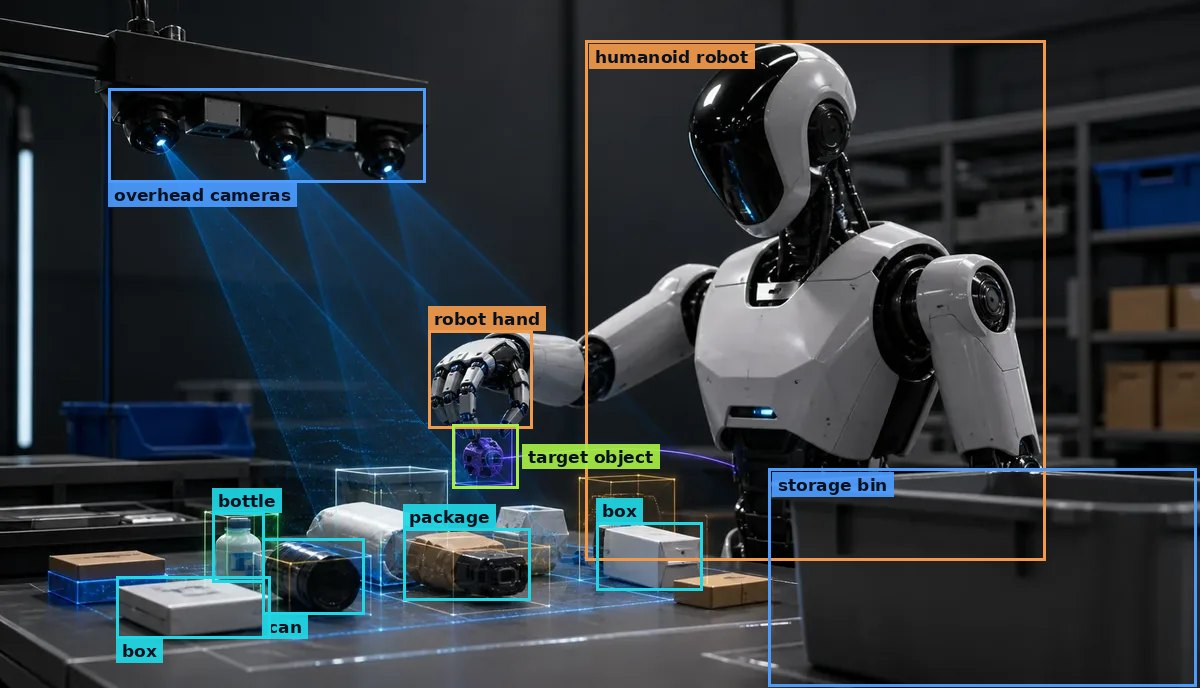
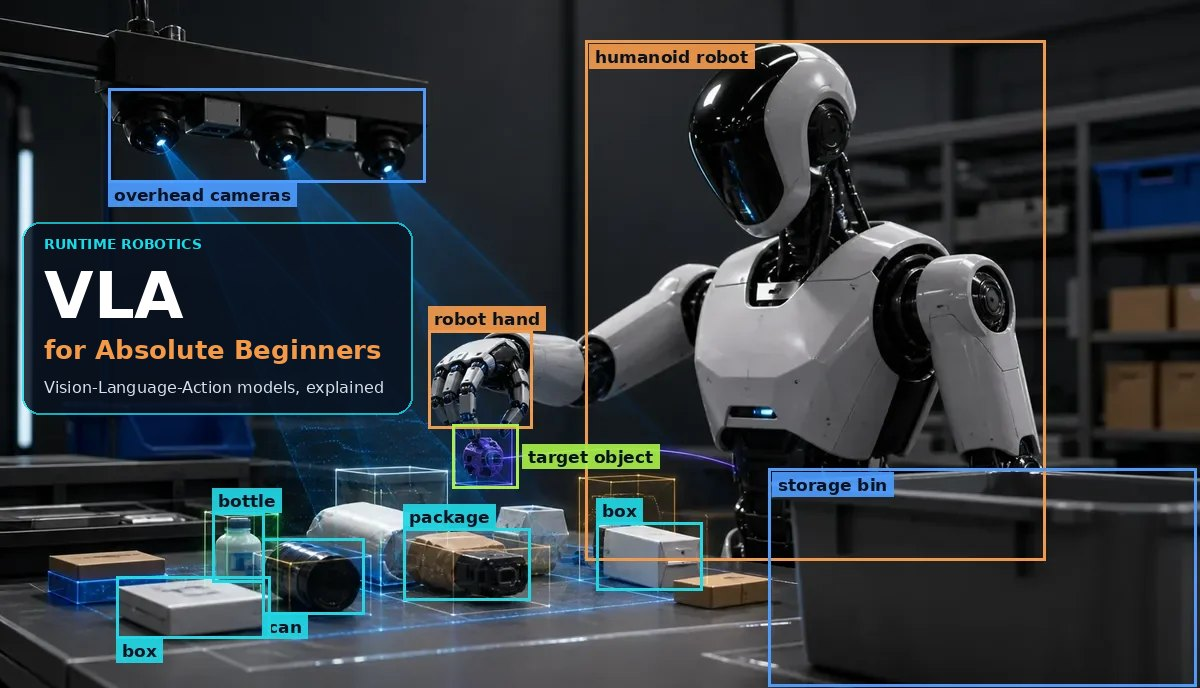
Add 'VLA for Absolute Beginners' title to the cover image
Title panel (RUNTIME ROBOTICS / VLA / for Absolute Beginners /
Vision-Language-Action models, explained) in the clear area left of the
robot, below the camera label and above the table labels. Alt text now
includes the title.

Changed region(s): [[0.0, 0.3052, 0.37, 0.6105]]

diff --git a/src/pages/vla-for-absolute-beginners.md b/src/pages/vla-for-absolute-beginners.md
@@ -9,7 +9,7 @@ service: "vla-vlm-robotics"
 tags: ["VLA", "Robot learning", "Physical AI"]
 ---
 
-![A humanoid robot picking a target object from a table, with the overhead cameras, robot hand, objects and storage bin labelled](/images/revised/vla-beginners-cover-labelled.webp)
+![VLA for Absolute Beginners: a humanoid robot picking a target object from a table, with the overhead cameras, robot hand, objects and storage bin labelled](/images/revised/vla-beginners-cover-labelled.webp)
 
 *What a robot needs to recognise before it can act: each object labelled, the way a robot vision system sees the scene.*
 
